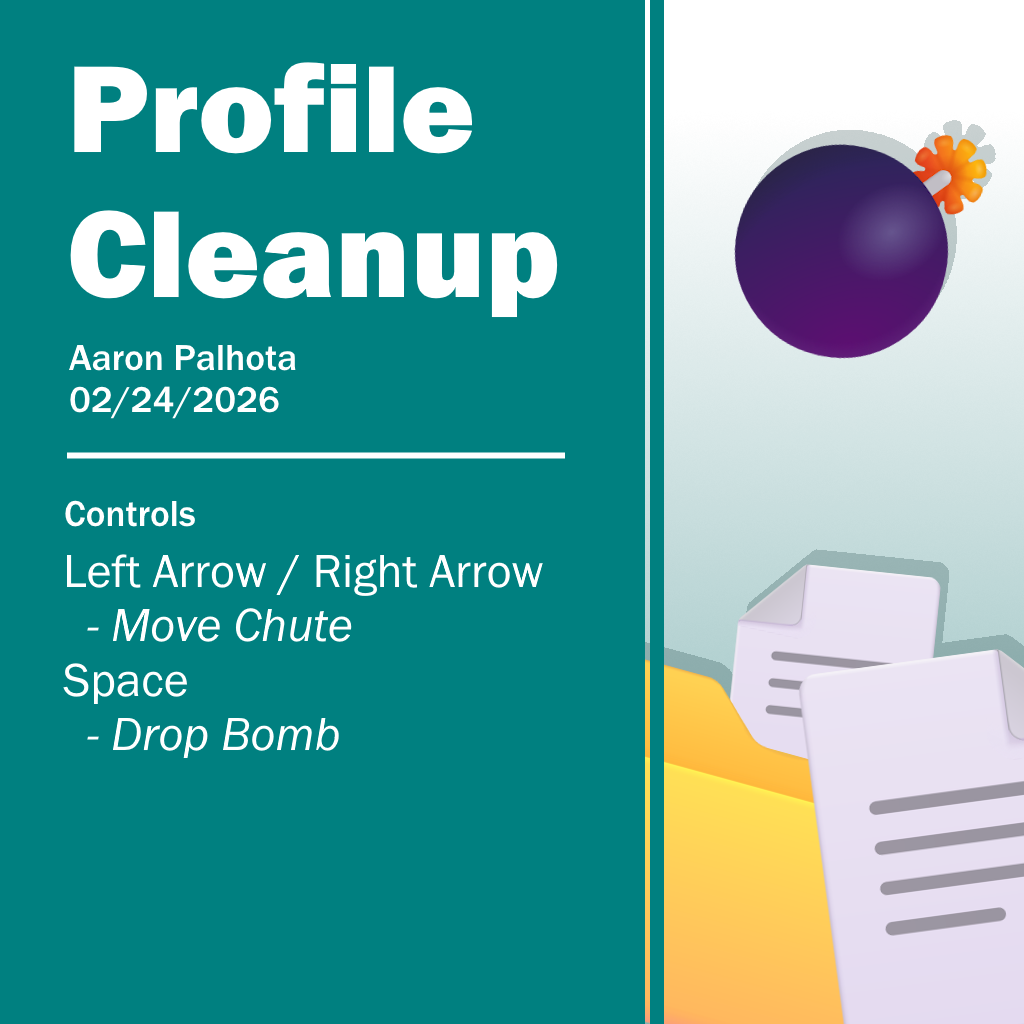
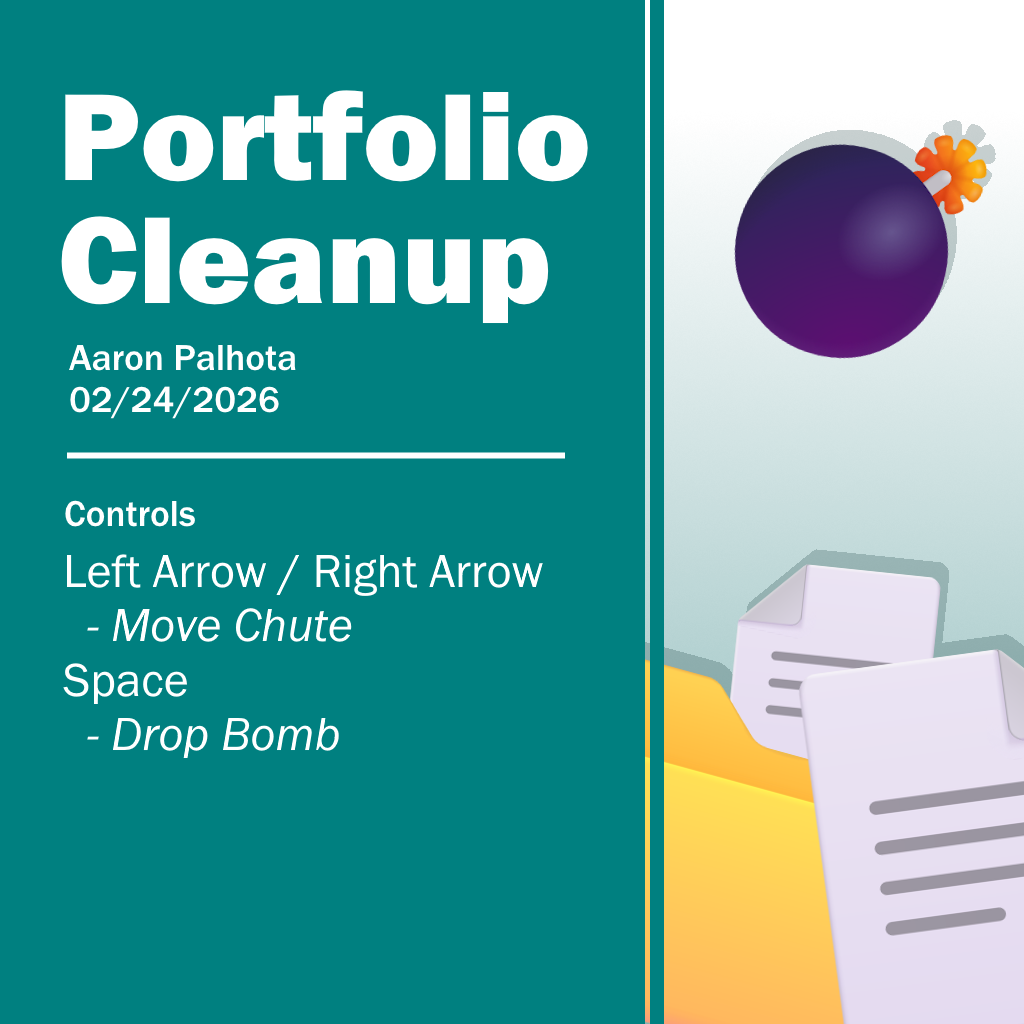
Update Portfolio Cleanup

Changed region(s): [[0.0625, 0.0625, 0.5938, 0.3125]]

diff --git a/resources/Portfolio Cleanup/game.js b/resources/Portfolio Cleanup/game.js
@@ -45,13 +45,14 @@ const GRID_Y = 18;
 const GAME_X = [1,GRID_X - 2];
 const GAME_Y = [4,GRID_Y - 3];
 const MAX_FILE_H = GAME_Y[1] - GAME_Y[0];
-const BOMB_SPAWN_Y = GAME_Y[0] - 1;
 
 const CHUTE_Y = GAME_Y[0] - 2;
 
+// Gameplay constants
 const GRAVITY_UPDATE = 10;
 const BOMBS_PER_STAGE = 10;
 const FILES_PER_STAGE = 25;
+const BLAST_RADIUS = 1;
 
 // Environment constants
 const BG_COLOR = 0x008080;
@@ -70,6 +71,7 @@ const BORDER = 2;
 
 // Bomb constants
 const BOMB_GLYPH = 0x1F4A3;
+const BLAST_COLOR = PS.COLOR_ORANGE;
 
 // Chute constants
 const CHUTE_COLOR = 0x606060;
@@ -79,6 +81,11 @@ const CHUTE_BORDER = 4;
 const CHUTE_BORDER_COLOR = 0x404040;
 const CHUTE_LEFT_ARROW = 0x2190;
 const CHUTE_RIGHT_ARROW = 0x2192;
+
+// Score constants
+let POINTS_PER_FILE = 50;
+let POINTS_PER_BOMB = 100;
+let POINTS_PER_LEVEL = 1000;
 
 // Space IDs
 const TILE_IDS = {
@@ -106,14 +113,18 @@ const MOVE_SOUND = "fx_click";
 const GRAVITY_SOUND = "fx_swoosh";
 const SHOOT_SOUND = "fx_silencer";
 const EXPLODE_SOUND = "fx_blast1";
+const WIN_SOUND = "fx_tada";
+const LOSE_SOUND = "fx_bloink"
 
 let position = 4;
 let scoreAtStart = 0;
 let score = 0;
 let currentLevel = 0;
 let bombsLeft = BOMBS_PER_STAGE;
+let filesLeft = FILES_PER_STAGE;
 let gameActive = true;
 let gravityTimer;
+let results = true;
 
 let bombs = [];
 let tiles = [];
@@ -126,8 +137,9 @@ PS.init = function( system, options ) {
     PS.audioLoad(EXPLODE_SOUND);
 
     PS.gridSize(GRID_X, GRID_Y);
-    PS.statusText("Portfolio Cleanup")
-    PS.gridColor(PS.COLOR_DARK_GRAY)
+    PS.statusText("Portfolio Cleanup");
+    PS.gridColor(PS.COLOR_GRAY_DARK);
+    PS.statusColor(PS.COLOR_WHITE);
 
     // Set all border & BG color
     for (let x = 0; x < GRID_X; x++) {
@@ -137,13 +149,11 @@ PS.init = function( system, options ) {
         }
     }
 
-    renderBG();
     buildLevel();
-    renderGame();
 };
 
 function buildLevel() {
-    let gameWidth = GAME_X[1] - GAME_X[0];
+    let gameWidth = GAME_X[1] - GAME_X[0] + 1;
     let gameHeight = GAME_Y[1] - GAME_Y[0];
     // Build the game space array
     for (let x = 0; x < gameWidth; x++) {
@@ -154,25 +164,61 @@ function buildLevel() {
     }
 
     // Initialize variables
-    scoreAtStart = score;
+    score = scoreAtStart;
     bombsLeft = BOMBS_PER_STAGE;
-    gameActive = true;
+    filesLeft = FILES_PER_STAGE;
     bombs = [];
 
     if (currentLevel == 0) {
         // Set up the tutorial level
         position = 3;
+        filesLeft = 1;
+        bombsLeft = 3;
         tiles[5][gameHeight] = TILE_IDS.file;
+
+        renderBG();
+        renderGame();
+
+        gameActive = true;
         return;
     }
 
-    PS.seed(currentLevel);
+    // Blow up the seed
+    PS.seed(currentLevel * 93923021939);
+
+    let rowStacks = [];
+    for (let x = 0; x < gameWidth; x++) {
+        rowStacks[x] = 0;
+    }
+
+    for (let i = 0; i < filesLeft; i++) {
+        let x = PS.random(gameWidth) - 1;
+
+        while(rowStacks[x] >= MAX_FILE_H) {
+            x++;
+            if (x >= gameWidth) {
+                x = 0;
+            }
+        }
+
+        let y = gameHeight - rowStacks[x];
+        rowStacks[x] += 1;
+        tiles[x][y] = TILE_IDS.file;
+    }
+
+    renderBG();
+    renderGame();
+
+    gameActive = true;
 }
 
 let scoreTimer;
 const SCORE_TICKS = 60;
 function printScore(increment) {
-    if (scoreTimer) { PS.timerStop(scoreTimer)}
+    if (scoreTimer) {
+        PS.timerStop(scoreTimer)
+        scoreTimer = null;
+    }
 
     if (increment == 0)  {
         printString(0, 1, score.toString(), TEXT_COLOR, GRID_X);
@@ -181,8 +227,6 @@ function printScore(increment) {
 
         scoreTimer = PS.timerStart(SCORE_TICKS, function() {
             printScore(0);
-            PS.timerStop(scoreTimer);
-            scoreTimer = null;
         })
     }
 }
@@ -220,25 +264,84 @@ function renderBG() {
     printBombs();
 }
 
-function explodeBombIndex(bombIndex) {
-    let x = bombs[bombIndex].x;
-    let y = bombs[bombIndex].y;
+function explodeTile(x,y) {
+    if (x < GAME_X[0] || x > GAME_X[1] || y < GAME_Y[0] || y > GAME_Y[1]) {
+        return 0;
+    }
 
-    bombs.splice(bombIndex,1);
+    let tileX = x - GAME_X[0];
+    let tileY = y - GAME_Y[0];
+
+    if (tiles[tileX][tileY] && tiles[tileX][tileY] != TILE_IDS.clear) {
+        tiles[tileX][tileY] = TILE_IDS.clear;
+        filesLeft -= 1;
+        return 1;
+    }
+
+    return 0;
+}
+
+function explodeBomb(x, y) {
+    let filesDestroyed = 0;
+
+    for (let a = x - BLAST_RADIUS; a <= x + BLAST_RADIUS; a++) {
+        for (let b = y - BLAST_RADIUS; b <= y + BLAST_RADIUS; b++) {
+            filesDestroyed += explodeTile(a,b);
+        }
+    }
+
+    let points = filesDestroyed * POINTS_PER_FILE;
+    score += points;
+    printScore(points);
+}
+
+const RESULT_Y = 6
+function createResultWindow(line1, line2, line3) {
+    drawWindow(1, RESULT_Y, GRID_X - 2, 4, "LEVEL")
+    printString(1, RESULT_Y + 1, line1, TEXT_COLOR, GRID_X-2);
+    printString(1, RESULT_Y + 2, line2, TEXT_COLOR, GRID_X-2);
+    printString(1, RESULT_Y + 3, line3, TEXT_COLOR, GRID_X-2);
+}
+
+function levelComplete() {
+    let points = bombsLeft * POINTS_PER_BOMB + POINTS_PER_LEVEL;
+
+    createResultWindow("CLEANED!", "+" + points.toString(), "→SPACE");
+
+    results = true;
+    gameActive = false;
+    score += points;
+    currentLevel += 1;
+    scoreAtStart = score;
+    printScore(points);
+    PS.audioPlay(WIN_SOUND);
+}
+
+function levelFailed() {
+    createResultWindow("FAILED.", filesLeft.toString() + " LEFT", "⟳SPACE");
+    results = true;
+    gameActive = false;
+    PS.audioPlay(LOSE_SOUND);
 }
 
 function gravityTick() {
-    let gravityAffected = false;
+    if (!gameActive) {
+        PS.timerStop(gravityTimer);
+        gravityTimer = null;
+        return;
+    }
+
+    let gravityApplied = false;
     let exploded = false;
     let explodeIndices = [];
 
     for (let i = 0; i < bombs.length; i++) {
-        gravityAffected = true;
+        gravityApplied = true;
         bombs[i].y += 1;
         let tileX = bombs[i].x - GAME_X[0];
         let tileY = bombs[i].y - GAME_Y[0];
 
-        if (bombs[i].y == GAME_Y[1] || tiles[tileX][tileY+1] != TILE_IDS.clear) {
+        if (bombs[i].y == GAME_Y[1] || tiles[tileX][tileY + 1] != TILE_IDS.clear) {
             // Add to array in reverse order
             explodeIndices.unshift(i);
         }
@@ -246,14 +349,17 @@ function gravityTick() {
 
     for (let n = 0; n < explodeIndices.length; n++) {
         exploded = true;
-        explodeBombIndex(explodeIndices[0]);
-    }
+        let x = bombs[explodeIndices[n]].x;
+        let y = bombs[explodeIndices[n]].y;
 
+        bombs.splice(explodeIndices[n],1);
+        explodeBomb(x,y);
+    }
 
     if (exploded) {
-        PS.audioPlay(EXPLODE_SOUND)
+        PS.audioPlay(EXPLODE_SOUND);
     }
-    if (gravityAffected) {
+    if (gravityApplied) {
         PS.audioPlay(GRAVITY_SOUND, {volume: 0.1});
     } else {
         PS.timerStop(gravityTimer);
@@ -261,6 +367,15 @@ function gravityTick() {
     }
 
     renderGame();
+
+    // Check win condition
+    if (filesLeft == 0) {
+        gameActive = false;
+        levelComplete();
+    } else if (bombsLeft == 0 && !gravityTimer) {
+        gameActive = false;
+        levelFailed();
+    }
 }
 
 function renderGame() {
@@ -304,6 +419,7 @@ function renderGame() {
         for (let y = 0; y < tiles[x].length; y++) {
             let id = tiles[x][y];
             if (id != TILE_IDS.clear) {
+                PS.fade(x + GAME_X[0], y + GAME_Y[0], 0);
                 PS.color(x + GAME_X[0], y + GAME_Y[0], TILE_STYLES[id].color);
                 PS.glyph(x + GAME_X[0], y + GAME_Y[0], TILE_STYLES[id].glyph);
             }
@@ -340,6 +456,10 @@ function drawWindow(x,y,w,h,title) {
     for (let a = x + 1; a < x + w - 1; a++) {
         PS.border(a, y, {top: BORDER, left: 0, right: 0, bottom: 0, equal: false, width: 0});
         PS.border(a, y+h-1, {top: 0, left: 0, right: 0, bottom: BORDER, equal: false, width: 0});
+    }
+    for (let b = y + 1; b < y + h - 1; b++) {
+        PS.border(x, b, {top: 0, left: BORDER, right: 0, bottom: 0, equal: false, width: 0});
+        PS.border(x+w-1, b, {top: 0, left: 0, right: BORDER, bottom: 0, equal: false, width: 0});
     }
 
     // Borders, corners
@@ -402,6 +522,9 @@ function moveRight() { move(1); }
 
 PS.keyDown = function( key, shift, ctrl, options ) {
     if (!gameActive) {
+        if (results && key == PS.KEY_SPACE) {
+            buildLevel();
+        }
         return;
     }
 
